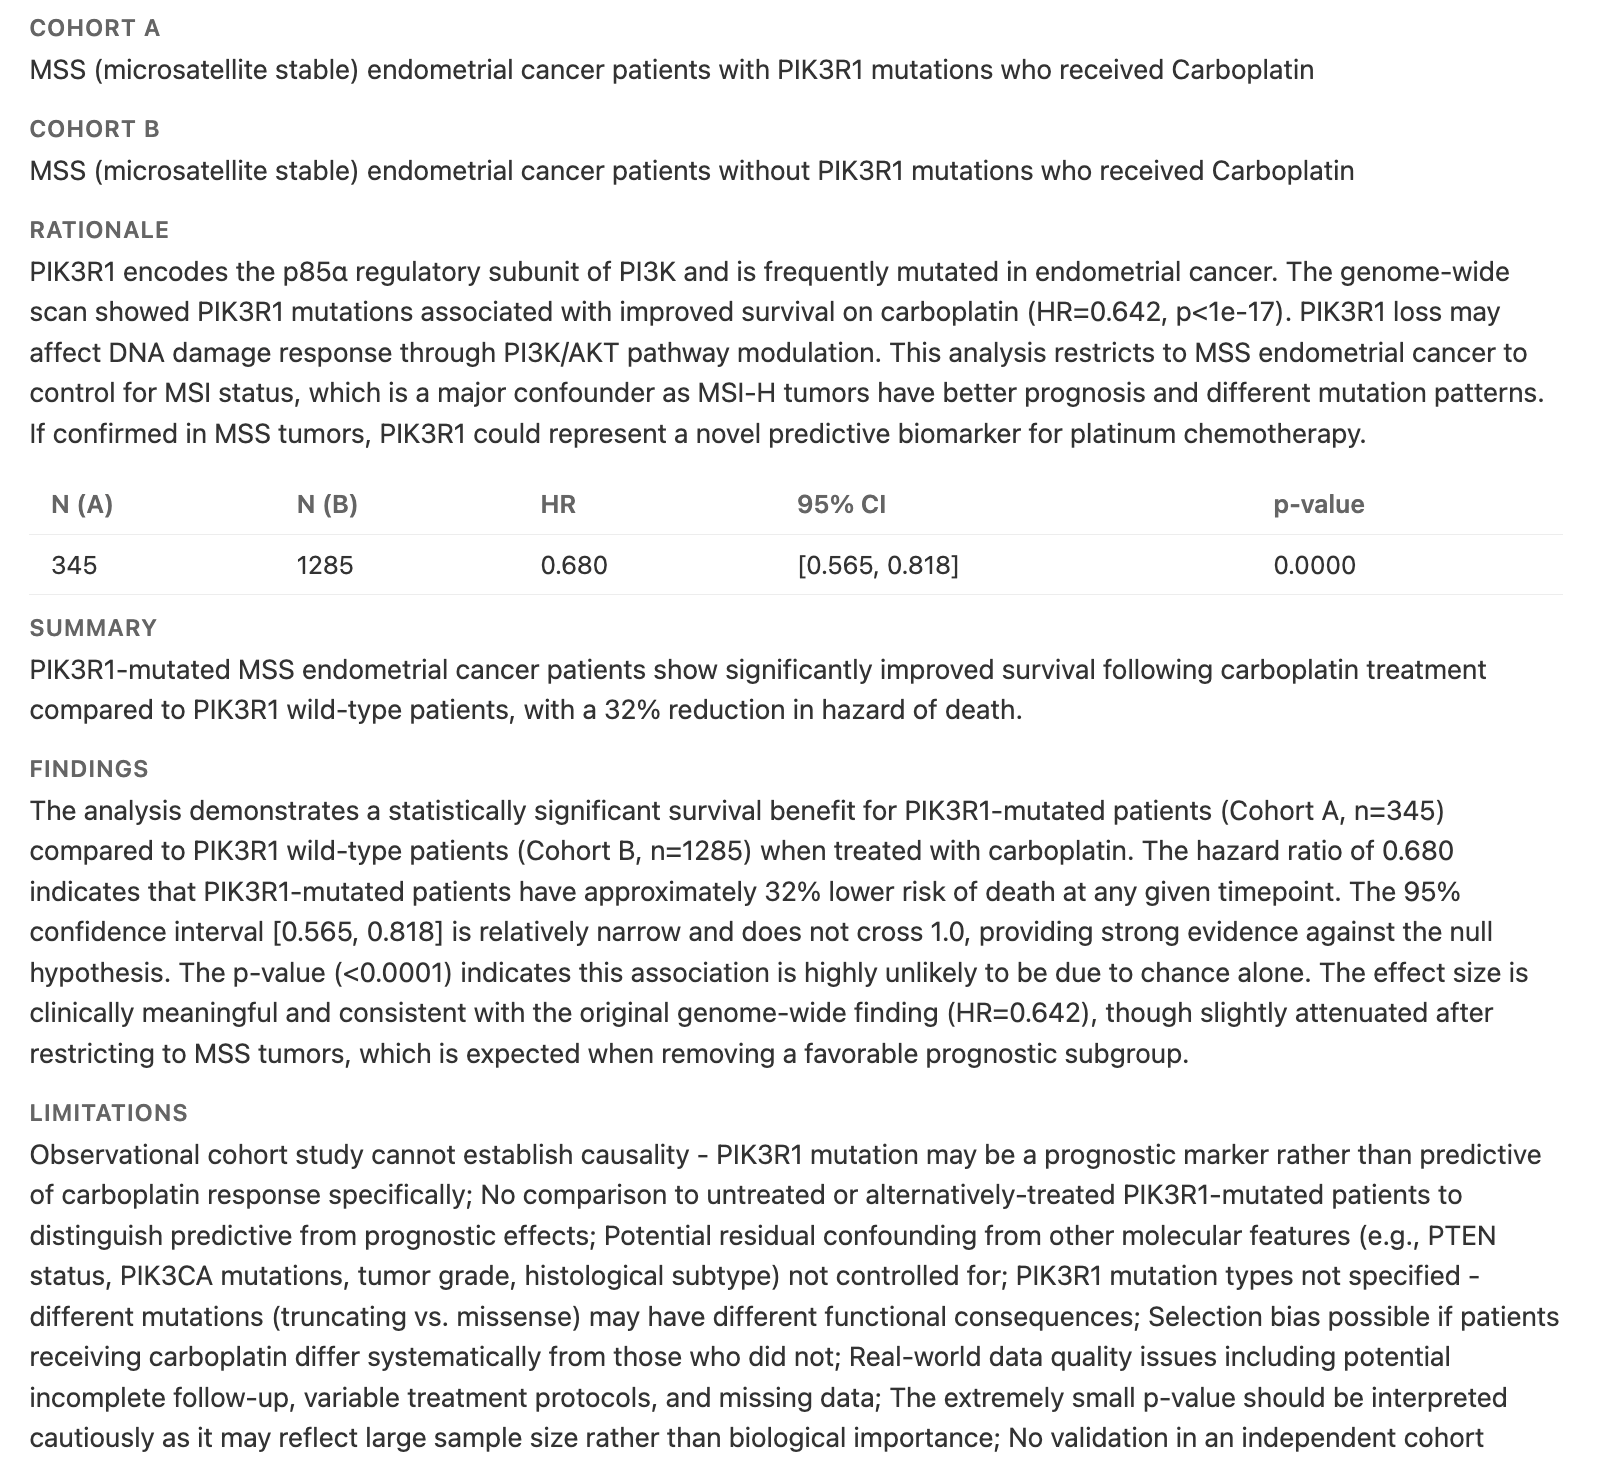
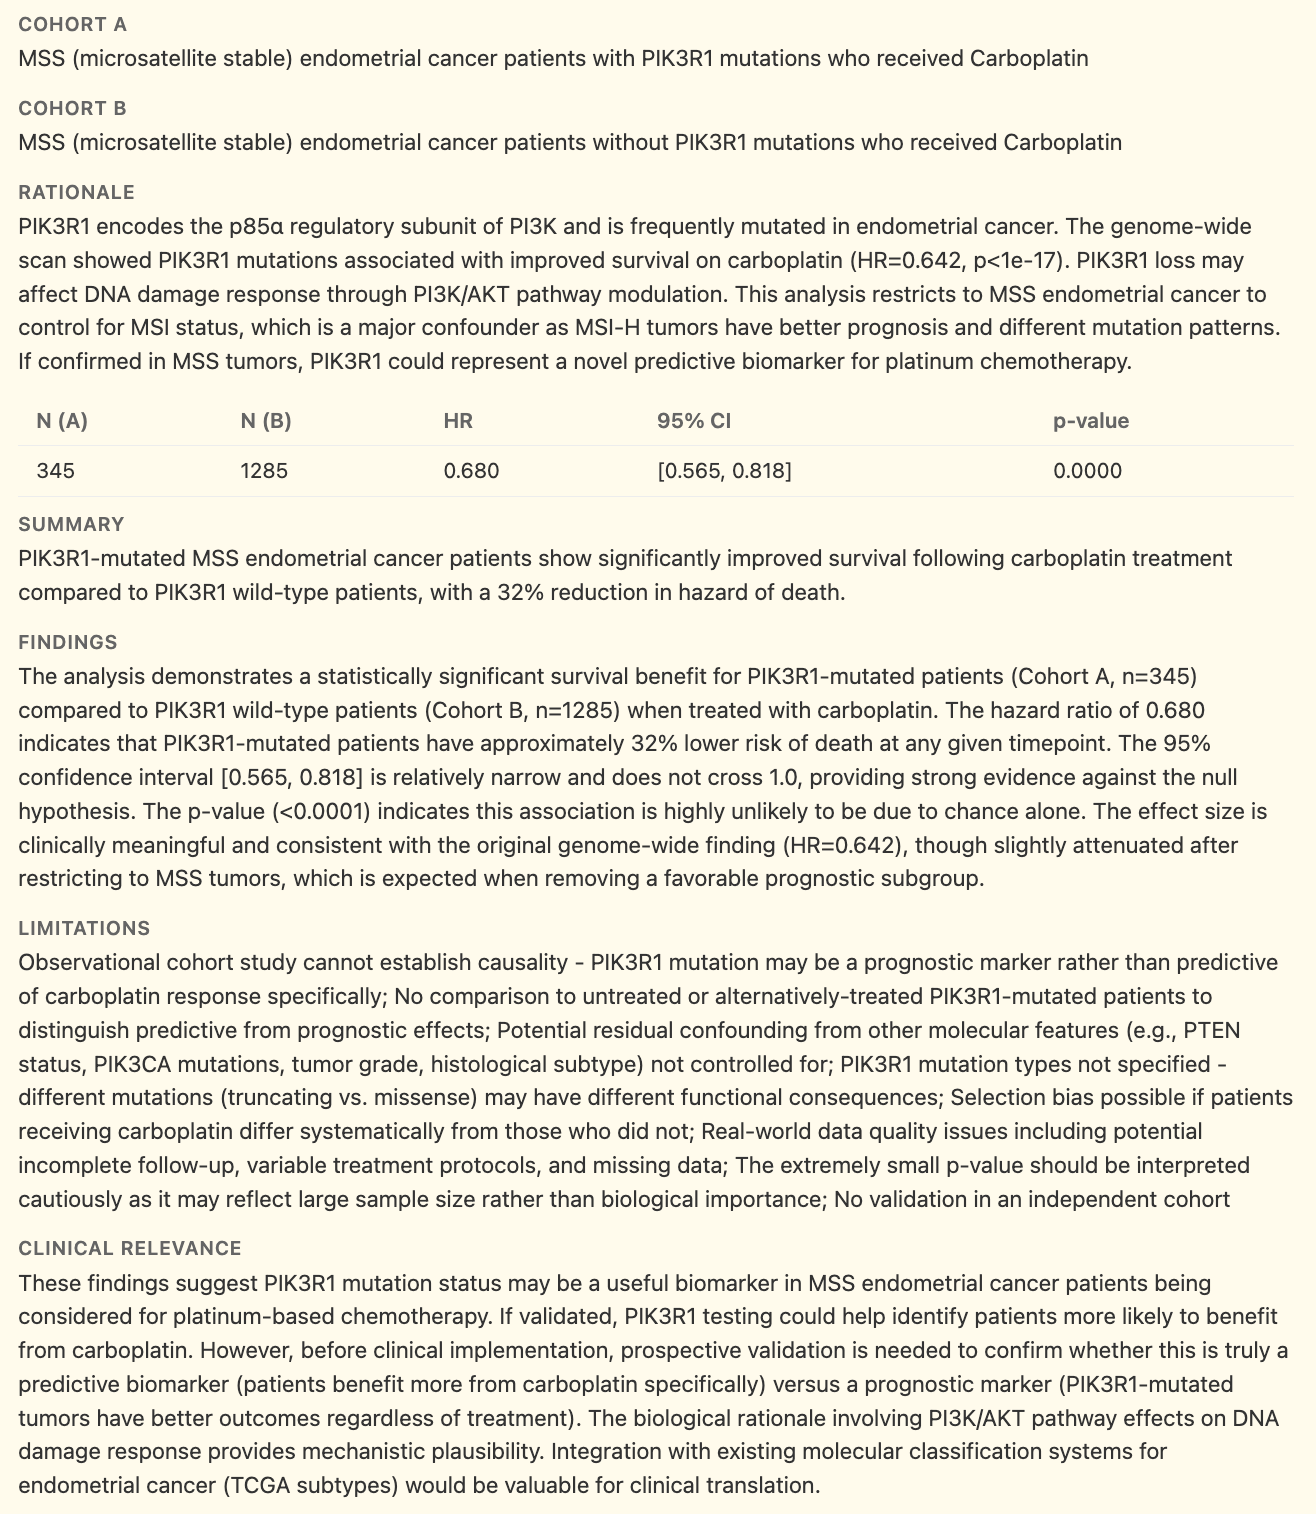
img

Changed region(s): [[0.0, 0.0, 0.997, 1.0]]

diff --git a/README.md b/README.md
@@ -11,6 +11,8 @@ get effect size + pval,
 interpret,
 iterate.
 
+For now, generates observations like the following:
+
 ![example hypothesis report](assets/example_report.png)
 
 ## Agent tools
